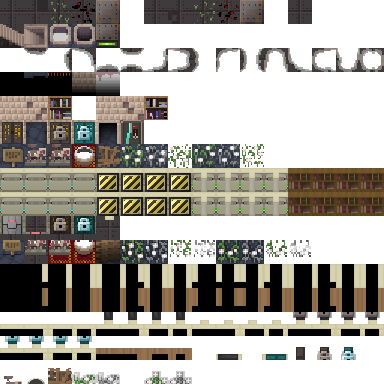
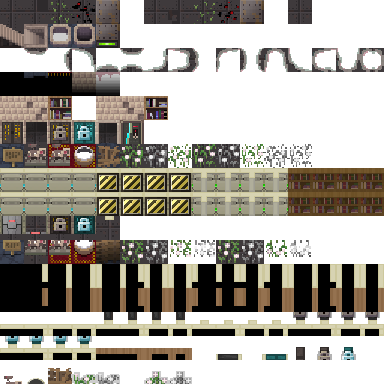
修改了矮人层怪组，强度更合理了。修改了矮人城草地贴图不对的问题

diff --git a/core/src/main/java/com/shatteredpixel/shatteredpixeldungeon/actors/mobs/Bestiary.java b/core/src/main/java/com/shatteredpixel/shatteredpixeldungeon/actors/mobs/Bestiary.java
@@ -177,24 +177,23 @@ public class Bestiary {
 						Nemeum.class,Nemeum.class,Nemeum.class));
 			case 16:
 				return new ArrayList<>(Arrays.asList(
-						Elemental.random(), Elemental.random(), Elemental.random(), Elemental.random(), Elemental.random(),
-						Warlock.class, Warlock.class, Warlock.class, Warlock.class, Warlock.class,
-						Monk.class));
+						Elemental.random(),Elemental.random(),Elemental.random(),
+						Ghoul.class,Ghoul.class));
 			case 17:
 				return new ArrayList<>(Arrays.asList(
 						Elemental.random(), Elemental.random(),
-						Warlock.class, Warlock.class,
+						Ghoul.class, Ghoul.class, Ghoul.class,
 						Monk.class, Monk.class));
 			case 18:
 				return new ArrayList<>(Arrays.asList(
-						Warlock.class,
 						Monk.class, Monk.class, Monk.class,
+						Warlock.class, Warlock.class,
 						Golem.class));
 			case 19:
 				return new ArrayList<>(Arrays.asList(
-						Warlock.class, Warlock.class,
-						Monk.class, Golem.class,
-						Golem.class, Golem.class, Golem.class));
+						Monk.class,
+						Warlock.class, Warlock.class,Warlock.class,
+						Golem.class,Golem.class));
 			case 21:
 				return new ArrayList<>(Arrays.asList(
 						Guard.class, Guard.class));
